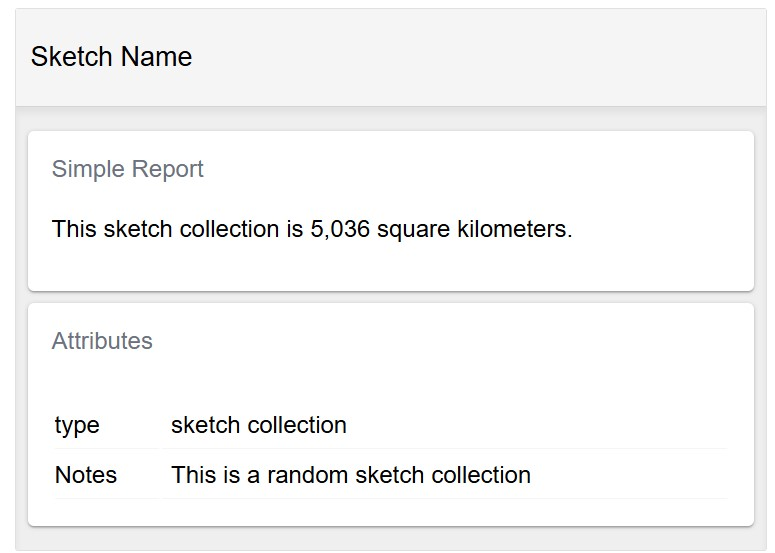
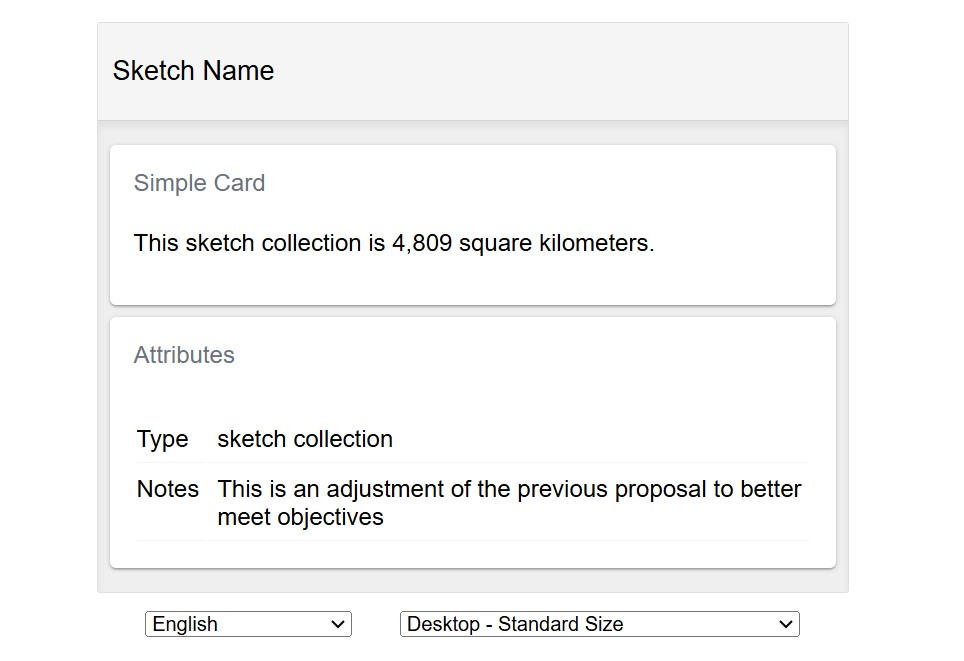
update sampleproject, add preprocessing images, bump to 7x-docs.128

diff --git a/website/docs/tutorials/sampleproject.md b/website/docs/tutorials/sampleproject.md
@@ -2,7 +2,7 @@
 
 This tutorial walks through creating a sample geoprocessing project for the Federated States of Micronesia. It demonstrates multiple methods for doing spatial analysis and creating reports, from low-level to high-level, so that you can engage with it at any/all of the levels needed for your project.
 
-The planning area for this example is defined as the area extending from the baseline (coastline/shoreline) to the outer boundary of the Exclusive Economic Zone (200 nautical miles).
+The planning area for this example is defined as extending from the Micronesia baseline (coastline/shoreline) to the outer boundary of the Exclusive Economic Zone (200 nautical miles).
 
 ![EEZ with land](./assets/eez-with-land.jpg)
 
@@ -20,7 +20,7 @@ Start the project `init` process, which will download the framework, and collect
 
 ```sh
 cd /workspaces
-npx @seasketch/geoprocessing@7.0.0-experimental-7x-docs.124 init 7.0.0-experimental-7x-docs.124
+npx @seasketch/geoprocessing@7.0.0-experimental-7x-docs.128 init 7.0.0-experimental-7x-docs.128
 ```
 
 ```text
@@ -57,32 +57,28 @@ Press Ctrl-J or Ctrl-backtick to open a new terminal
 
 ## Connect Github repo and push
 
-Before you continue, let's take a snapshot of your code now, at the starting point.
-
-[Create a remote Github repository](https://github.com/new) called `fsm-reports-test`. Leave it empty, do not choose to initialize with a template, README, gitignore, or LICENSE.
-
-Then connect your local repo and make your first code commit:
+Before you continue, let's create a local git repository and commit everything so far as a starting point.
 
 ```bash
 git init
 git add .
 git commit -m "first commit"
 git branch -M main
-git remote add origin https://github.com/PUT_YOUR_GITHUB_ORG_OR_USERNAME_HERE/fsm-reports-test.git
-git push -u origin main
 ```
-
-You should see your files successfuly pushed to Github.
-
-It may ask you if it can use the Github extension to sign you in using Github. It will open a browser tab and communicate with the Github website. If you are already logged in there, then it should be done quickly, otherwise it may have you login to Github.
 
 After this point, you can continue using git commands in the terminal to stage code changes and commit them if that's what you know, or you can use VSCode's [built-in git support](https://code.visualstudio.com/docs/sourcecontrol/overview).
 
-You can learn more about your projects [folder structure](../structure.md)
+To learn more about your projects folder structure, visit the [structure](../structure.md) page.
 
 ## Preprocessing
 
-Preprocessing function are invoked by the SeaSketch platform, on a user-drawn shape, right after the user finishes drawing it. It's a specialized function that validates a drawn shape and potentially modifies it, such as to remove portions of the shape outside the planning boundary. This "clipping" of the shape is useful in that it allows a user to overdraw beyond the planning boundary and it will be clipped right to the edge of that boundary.
+Preprocessing functions are invoked by the SeaSketch platform, on a user-drawn shape, right after the user finishes drawing it. It's a specialized function that validates a drawn shape and potentially modifies it, such as to remove portions of the shape outside the planning boundary. This "clipping" of the shape is useful in that it allows a user to overdraw beyond the planning boundary and it will be clipped right to the edge of that boundary.
+
+Here is an example of a preprocessor clipping a user drawn polygon to erase any part overlapping with land
+
+| Before Clip                                           | After Clip                                         |
+| ----------------------------------------------------- | -------------------------------------------------- |
+| ![Before](./assets/preprocessing-before.jpg "Before") | ![After](./assets/preprocessing-after.jpg "After") |
 
 In the `src/functions` directory you will find four preprocessing functions that come with every project, and they are further configureable to meet your needs:
 
@@ -100,7 +96,7 @@ Each preprocessing function has its own unit test and smoke test file. For examp
 
 **Unit tests** ensure the preprocessor produces exact output for very specific input features and configuration, and throws errors properly.
 
-**Smoke tests** are about ensuring the preprocessor behaves properly for your project location, and that its results "look right" for a variety of input features. It does this by loading example shapes from the project `examples/features` directory. It then runs the preprocessing function on the examples, makes sure they produce "truthy" output, and saves them to `examples/output`.
+**Smoke tests** are about ensuring the preprocessor behaves properly for your project location, and that its results "look right" for a variety of input features. It does this by loading example shapes from the project `examples/features` directory. It then runs the preprocessing function on the examples, makes sure they produce output, and saves them to `examples/output`.
 
 To test your preprocessing functions, we need to create example features within the extent of our Micronesian planning area. To do this, run the following script:
 
@@ -117,9 +113,9 @@ Now run the tests:
 npm test
 ```
 
-You can now look at the geojson output in `examples/output`, including visually by opening a file in QGIS or pasting it into geojson.io. This is the best way to verify the preprocessor worked as expected.
+You can now look at the geojson output files in the `examples/output` directory, including visually by opening them in QGIS or pasting the JSON into geojson.io. This is the best way to visually verify the preprocessor worked as expected.
 
-Commit the feature examples and their output files to your git repository so that you can track changes over time.
+This is a good checkpoint to commit your latest changes to Github.
 
 To learn more about preprocessing, check out the [guide](../preprocessing.md)
 
@@ -133,7 +129,9 @@ Your new project comes with a simple report that calculates the area of a sketch
 
 The area calculation is done within a geoprocessing function in `src/functions/simpleFunction.ts`.
 
-Open this file and you will notice this function defines a custom result payload called `SimpleResults`, which in this case is an object with an `area` number value.
+Geoprocessing functions are invoked by a report client, as soon as its loaded in the browser by SeaSketch. It's a specialized function that takes a Sketch polygon or collection of Sketch polygons, performs some analysis, and returns the result to be displayed in the report client.
+
+Open `src/functions/simpleFunction.ts` and you will notice this function defines a custom result payload called `SimpleResults`, which in this case is a Javascript object with an `area` property containing a number value.
 
 ```typescript
 export interface SimpleResults {
@@ -214,66 +212,34 @@ SimpleReport renders two cards, `SimpleCard` and `SketchAttributesCard`, wrappin
 
 `SketchAttributes` card is a card component that displays the properties of the users Sketch. No geoprocessing function is needed to do its work.
 
-`SimpleCard` is a card component that invokes simpleFunction and displays its results. Let's look at the full initial code:
+`SimpleCard` is a card component that invokes simpleFunction and displays its results. Let's look at it closer.
 
-<details>
-<summary>src/components/SimpleCard.tsx</summary>
-
-```jsx
-import React from "react";
-import { Trans, useTranslation } from "react-i18next";
-import {
-  ResultsCard,
-  useSketchProperties,
-} from "@seasketch/geoprocessing/client-ui";
-import { roundDecimalFormat } from "@seasketch/geoprocessing/client-core";
-// Import SimpleResults to type-check data access in ResultsCard render function
-import { SimpleResults } from "../functions/simpleFunction.js";
-
-export const SimpleCard = () => {
-  const { t } = useTranslation();
-  const [{ isCollection }] = useSketchProperties();
-  const titleTrans = t("SimpleCard title", "Simple Report");
-  return (
-    <>
-      <ResultsCard title={titleTrans} functionName="simpleFunction">
-        {(data: SimpleResults) => {
-          const areaSqKm = data.area / 1_000_000;
-          const areaString = roundDecimalFormat(areaSqKm, 0, {
-            keepSmallValues: true,
-          });
-          const sketchStr = isCollection ? t("sketch collection") : t("sketch");
-
-          return (
-            <>
-              <p>
-                <Trans i18nKey="SimpleCard sketch size message">
-                  This {{ sketchStr }} is {{ areaString }} square kilometers.
-                </Trans>
-              </p>
-            </>
-          );
-        }}
-      </ResultsCard>
-    </>
-  );
-};
-```
-
-</details>
-
-The first thing to notice is that SimpleCard renders a `ResultsCard` component. Behind the scenes ResultsCard invokes the geoprocessing function with the `functionName` provided (simpleFunction).
+The first thing to notice is that SimpleCard renders a `ResultsCard` component. Behind the scenes ResultsCard invokes the geoprocessing function with the `functionName` provided (simpleFunction). Keep in mind that in a production environment the ResultsCard is rendered in your web browser and the geoprocessing function is a Lambda function in Amazon's cloud invoked via an API call.
 
 ```typescript
 <ResultsCard title={titleTrans} functionName="simpleFunction">
 ```
 
-ResultsCard then render function it is provided with the results.
+ResultsCard then contains a render function that is provided with the results.
 
 ```typescript
 {
   (data: SimpleResults) => {
-    // Render results here
+    const areaSqKm = data.area / 1_000_000;
+    const areaString = roundDecimalFormat(areaSqKm, 0, {
+      keepSmallValues: true,
+    });
+    const sketchStr = isCollection ? t("sketch collection") : t("sketch");
+
+    return (
+      <>
+        <p>
+          <Trans i18nKey="SimpleCard sketch size message">
+            This {{ sketchStr }} is {{ areaString }} square kilometers.
+          </Trans>
+        </p>
+      </>
+    );
   };
 }
 ```
@@ -284,10 +250,12 @@ The code in this render function is the heart of each report card. This particul
 
 ### Language Translation
 
-The last thing to notice is that SimpleCard contains a lot of boilerplate for language translation of its strings (using [`react-i18next`](https://react.i18next.com/)). If your reports need to be multi-lingual you will need to to use these, otherwise you can drop them. Language translation is a multi-part process:
+The last thing to notice is that SimpleCard contains a lot of boilerplate for language translation of its strings (using [`react-i18next`](https://react.i18next.com/)). If your reports need to be multi-lingual you will need to to use these, otherwise you can drop them.
+
+Language translation is a multi-part process:
 
 - First, a combination of `useTranslation`, `t` function, and `Trans` components are used to establish which strings in your report client and components should be translated.
-- Next, translateable strings are extracted using the `extract:translation` command to `src/i18n/lang/en/translation.json`. The strings extacted for SimpleCard are:
+- Next, those translateable strings are extracted using the `extract:translation` command, and output to `src/i18n/lang/en/translation.json`. The strings extracted for SimpleCard are:
 
 ```text
 {
@@ -297,7 +265,10 @@ The last thing to notice is that SimpleCard contains a lot of boilerplate for la
 }
 ```
 
-- Once the strings are translated to different languages (covered in a later tutorial), the `Translator` component in our report client is responsible for inspecting the users language at runtime in the browser and swapping in strings for the appropriate language.
+- The English translation file is then translated to the other needed languages and put into their own translation files
+- The `Translator` component in your report client is then responsible for inspecting the users language at runtime in the browser and swapping the English strings for strings in the appropriate language.
+
+This process is covered in more detail in a separate doc.
 
 ### Generate Examples
 
@@ -366,17 +337,20 @@ This will:
 
 Open the storybook URL in your browser and click through the stories.
 
-![Storybook initial view](./assets/storybook-one.jpg)
+![Simple Card View](./assets/simple-card-view.jpg)
 
 A powerful feature of Storybook is that when you save edits to your report client or component code, storybook will refresh the browser automatically with the changes. This lets you develop your reports and debug them more quickly.
 
-If you later add more sketch examples to the `examples/sketch` directory, will need to rerun the smoke tests to generate example output, and then stop and restart your storybook to re-generate all the stories.
+There are a couple of situations that will cause you to need to stop your storybook server (Ctrl-C) and then restart it to pick up the changes.
+
+- you add more sketch examples to your `examples/sketch` directory
+- you rerun smoke tests and generate new test output
 
 Learn more in the [storybook guide](./storybook.md).
 
 ### Simple Function Modifications
 
-Let's enhance your simple geoprocessing function to calculate more detailed information when the report is run on a sketch collection. It should now also calculate the area of the entire collection, and the area of each child sketch in the collection.
+Let's enhance your simple geoprocessing function to calculate more detailed information when the report is run on a sketch collection. It should calculate the area of the entire collection, and the area of each child sketch in the collection.
 
 First modify SimpleResults with an additional property `childSketchAreas` that can store this information:
 
@@ -586,7 +560,7 @@ export const SimpleCard = () => {
 
 </details>
 
-If your storybook is still running from last time, you will need to restart it to pick up the new smoke test output. In fact, anytime you rerun your smoke tests to generate new output, you will need to restart your storybook.
+If your storybook is still running from last time, you will need to restart it to pick up the new smoke test output.
 
 ```bash
 Ctrl-C
@@ -668,11 +642,9 @@ The import process will:
   - quickly access project datasources in your reports using the `projectClient` (more on this later)
   - quickly reimport datasources using the `reimport:data` command, without having to answer questions again.
 
-Once finished you are ready to use your datasources for `local` report development. Datasource publishing for `production` use is covered later.
+Once finished you are ready to use your datasources for `local` report development. You can add, edit, or delete records in datasources.json manually to meet your need as long as the records meet the expected [schema](../concepts/AdvancedConcepts.md#datasources).
 
-You can add, edit, or delete records in datasources.json manually to meet your need as long as the records meet the expected [schema](../concepts/AdvancedConcepts.md#datasources).
-
-If at any point the process of using `data:import`, `datasources.json`, and `projectClient` doesn't meet your needs, you are welcome to create your own separate process, as long as it gets datasources to the `data/dist` directory in the format (fgb) and projection (WGS84) required, ready to be published for production use.
+If at any point the process of using `data:import`, `datasources.json`, and `projectClient` doesn't meet your needs, you are welcome to create your own separate process, as long as it gets datasources to the `data/dist` directory in the format (fgb) and projection required (EPSG 4326 for vector, EPSG 6933 for raster), ready to be published for production use.
 
 ### Precalculation
 
@@ -2419,6 +2391,19 @@ You will want to then look at the git changes produced in `src/i18n/lang/en/tran
 
 To learn more visit the
 [LINK TO TRANSLATION DOC]
+
+## Create Github Project
+
+At this point, you can push your code from your local git repository to a remote repository on Github. First, [create a remote Github repository](https://github.com/new) called `fsm-reports-test`. Leave it empty, do not choose to initialize with a template, README, gitignore, or LICENSE.
+
+```bash
+git remote add origin https://github.com/PUT_YOUR_GITHUB_ORG_OR_USERNAME_HERE/fsm-reports-test.git
+git push -u origin main
+```
+
+You should see your files successfuly pushed to Github.
+
+It may ask you if it can use the Github extension to sign you in using Github. It will open a browser tab and communicate with the Github website. If you are already logged in there, then it should be done quickly, otherwise it may have you login to Github.
 
 ## What's Next
 

diff --git a/website/docs/tutorials/newproject.md b/website/docs/tutorials/newproject.md
@@ -84,7 +84,7 @@ Start with initializing a new project:
 
 ```sh
 cd /workspaces
-npx @seasketch/geoprocessing@7.0.0-experimental-7x-docs.124 init 7.0.0-experimental-7x-docs.124
+npx @seasketch/geoprocessing@7.0.0-experimental-7x-docs.128 init 7.0.0-experimental-7x-docs.128
 ```
 
 Tips:
